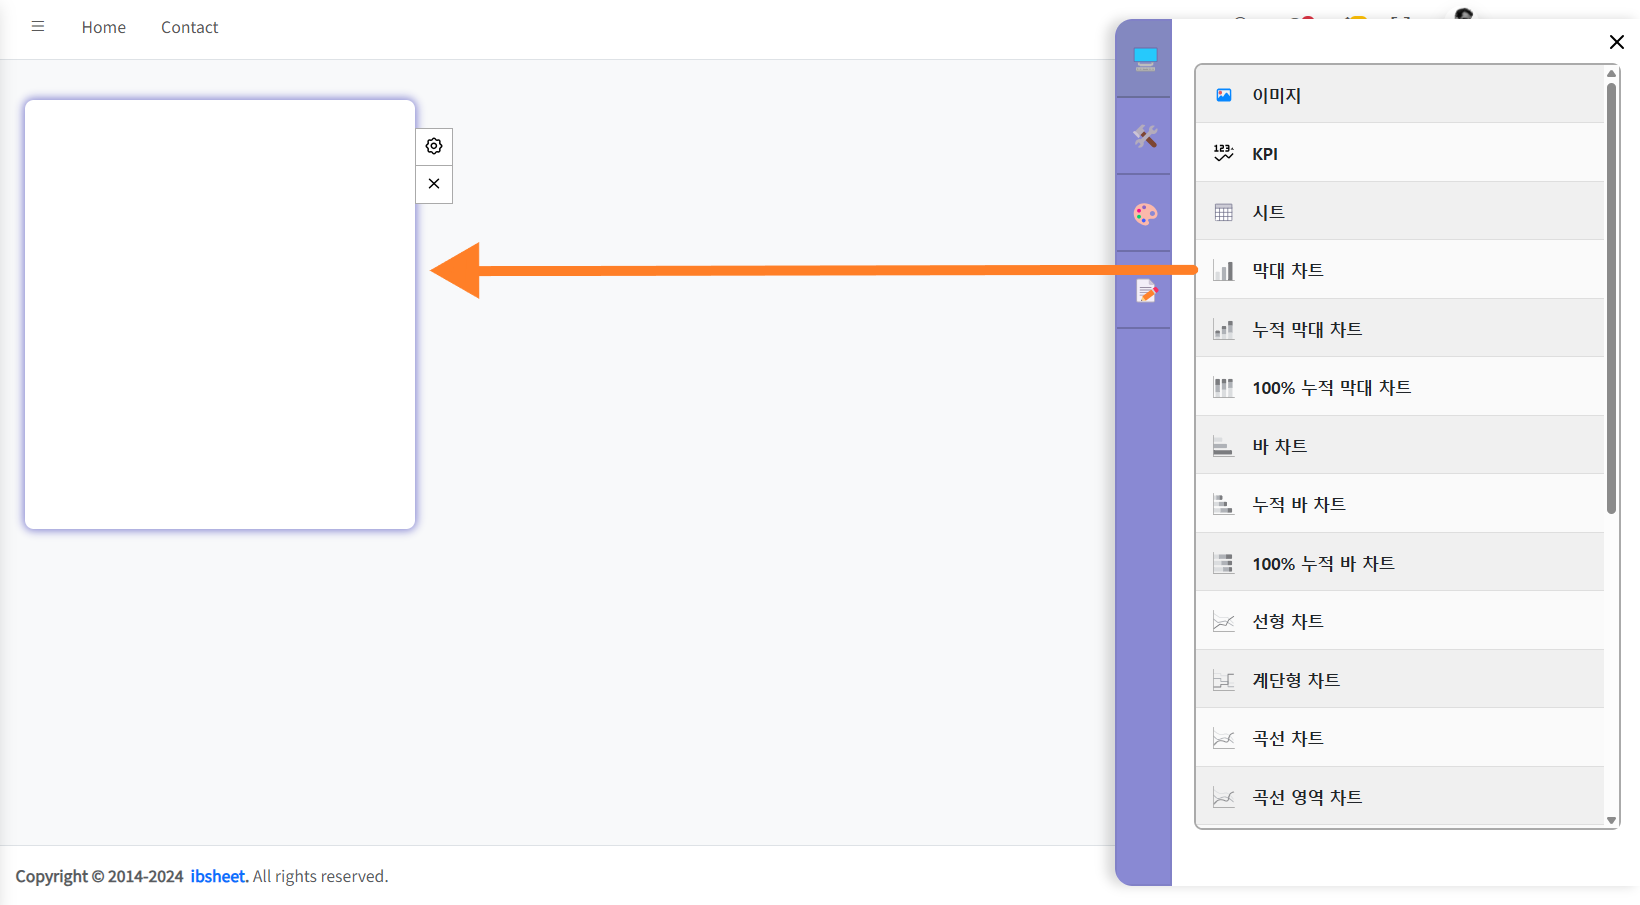
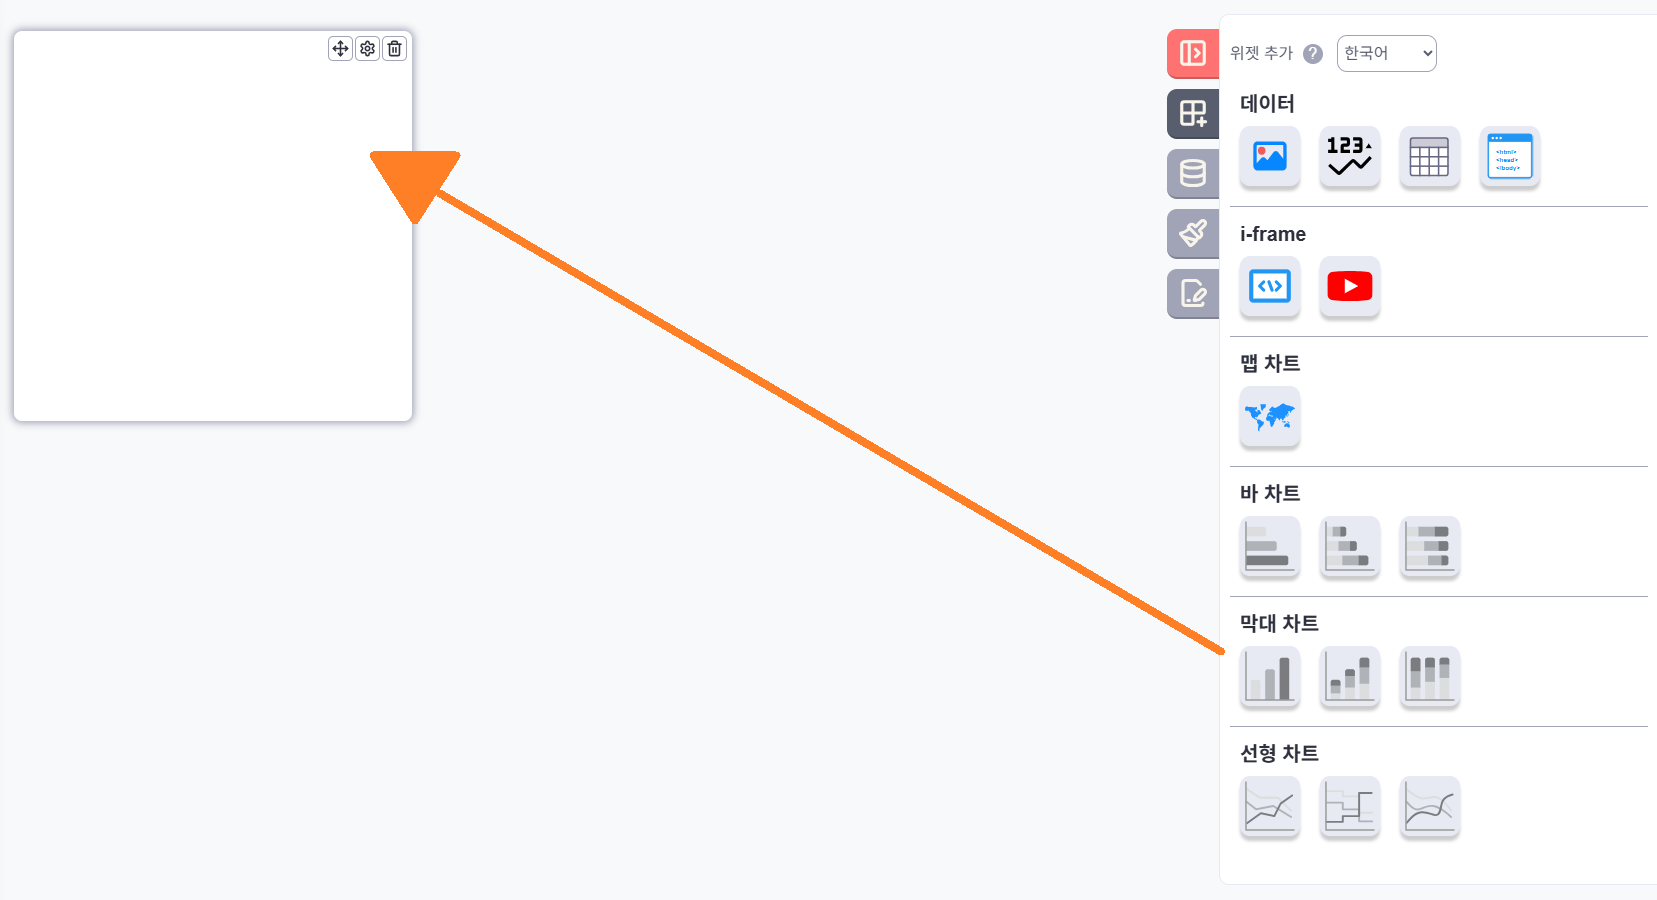
📝매뉴얼 최신화

diff --git a/docs/2. 가이드/1. 대시보드/02. 위젯 Options 설정 가이드.md b/docs/2. 가이드/1. 대시보드/02. 위젯 Options 설정 가이드.md
@@ -1,0 +1,103 @@
+# 위젯 Options 설정 가이드
+DashBuilder의 위젯 객체 설정 가이드 입니다.
+
+## 기본 구조
+
+```javascript
+{
+  id: "chart_1",
+  type: "chart",
+  kind: "column",
+  style: "column",
+  content: '<div id="chart_1" style="width:100%;height:100%;"></div>'
+  dataOptions: {
+    dataSetId: "data1",
+    categories: ["city"],
+    series: ["housingCost"]
+  },
+  options: {
+    ko: {
+      chart: { type: "column" }
+      ...
+    }
+  }
+}
+
+```
+
+## 설명
+
+### id
+- 위젯의 고유한 ID 값.
+- `content` 옵션의 div id 값과 동일해야 됩니다.
+
+### content
+- 위젯이 표시되는 HTML DOM.
+
+### type
+- 위젯의 타입.
+- `chart`, `sheet`, `map`, `img`, `kpi`, `iframe`
+
+### kind
+- 위젯의 타입에 대한 종류.
+- `chart`
+  - `bar`, `column`, `line`, `spline`, `area`, `pie`, `gauge`, `solidgauge`
+- `iframe`
+  - `iframe`, `youtube`
+- `img`
+- `kpi`
+- `sheet`
+- `map`
+
+### style
+- 위젯의 종류에 대한 스타일.
+- `bar`
+  - `bar`, `barStacked`, `barStacked100`
+- `column`
+  - `column`, `columnStacked`, `columnStacked100`, `scatter`
+- `line`
+  - `line`, `lineStep`, `spline`, `polar`
+- `area`
+  - `area`, `areaSpline`, `areaStacked`, `areaStacked100`
+- `pie`
+  - `pie`, `doughnut`, `halfDoughnut`
+- `map`
+- `gauge`
+- `solidgauge`
+- `img`
+- `kpi`
+- `sheet`
+- `iframeUrl`
+- `youtubeUrl`
+
+### dataOptions
+- 위젯의 DataSets 연결 옵션.
+- 해당 옵션의 설정 정보를 통하여 각 위젯의 데이터를 표현.
+  - dataSetId : `(공통)` DataSet 의 ID.
+  - categories : `차트` 위젯에서 category 영역으로 표시 할 DataSet의 keyMap의 ID.
+  - series : `차트` 위젯에서 series 영역으로 표시 할 DataSet의 keyMap의 ID.
+  - 
+
+## 활용 예시
+
+```javascript
+events: {
+  ibchart: {
+    pointClick: function(param) {
+      // 클릭된 차트 포인트의 데이터를 로그에 출력
+      console.log("클릭된 포인트:", param.point);
+      console.log("시리즈:", param.series);
+      console.log("값:", param.value);
+      
+      // 클릭된 포인트에 따른 추가 작업 수행
+      // 예: 다른 위젯 업데이트, 데이터 필터링 등
+    }
+  }
+}
+```
+
+## 참고 사항
+
+- 각 이벤트 핸들러의 `paramObject` 매개변수는 이벤트 유형에 따라 다른 속성을 가집니다.
+- 이벤트 핸들러 내에서 `this`는 기본적으로 이벤트가 발생한 위젯 객체를 참조합니다.
+- 복잡한 대시보드의 경우, 위젯 간 상호작용을 위해 이벤트 핸들러를 활용할 수 있습니다.

diff --git a/docs/2. 가이드/1. 대시보드/3. API/5. addWidget.md b/docs/2. 가이드/1. 대시보드/3. API/5. addWidget.md
@@ -24,13 +24,17 @@ dashboard.addWidget({
   h: 3, // 높이
   id: "new-chart", // 위젯 ID
   type: "chart", // 위젯 타입
+  kind: "column", // 차트 종류
+  style: "column", // 차트 스타일
   content: '<div id="new-chart" style="width:100%;height:100%;"></div>', // 위젯 내용
   options: {
-    chart: { type: "column" },
-    series: [
-      { name: "서울", data: [13, 15, 22, 15] },
-      { name: "부산", data: [7, 20, 29, 17] },
-    ],
+    ko: {
+      chart: { type: "column" },
+      series: [
+        { name: "서울", data: [13, 15, 22, 15] },
+        { name: "부산", data: [7, 20, 29, 17] },
+      ]
+    }
   },
 });
 ```
@@ -44,9 +48,10 @@ dashboard.addWidget({
 ## 참고 사항
 :::tip
 - 위젯 유형에 따라 적절한 위젯 클래스의 인스턴스가 생성됩니다.
-- 지원되는 위젯 유형: 'chart', 'sheet', 'kpi', 'img', 'map'
+- 지원되는 위젯 유형: 'chart', 'sheet', 'kpi', 'img', 'map', 'iframe'
 - 각 위젯은 고유한 ID를 가져야 합니다.
 - 위젯이 추가된 후 자동으로 render() 메서드가 호출됩니다.
+- [options 가이드](../02.%20위젯%20Options%20설정%20가이드.md)
 :::
 
 :::warning

diff --git a/docs/2. 가이드/8. HTML/1. HTML 위젯 가이드.md b/docs/2. 가이드/8. HTML/1. HTML 위젯 가이드.md
@@ -1,0 +1,18 @@
+## HTML 위젯 설정 가이드
+Data Set 을 HTML 위젯과 연결하게 되면 Data Set 의 Data Item 을 표시합니다.
+
+![HTML1](../../assets/img/htmlWidget1.png)
+
+Editor 창에 HTML 코드를 입력하고 적용을 누르게 되면 HTML 위젯에 해당 HTML 코드의 화면이 표시됩니다.
+
+![HTML2](../../assets/img/htmlWidget2.png)
+
+ Data Set 의 Data Item 을 클릭하게 되면 Editor 창에 Data Item 의 데이터를 참조할 수 있는 코드가 입력됩니다. 
+ 
+ 적용을 누르게 되면 HTML 위젯에 해당 HTML 코드의 화면이 표시됩니다.
+
+![HTML3](../../assets/img/htmlWidget3.png)
+
+:::warning
+Data Set 의 Data Item 은 첫번째 데이터에 대해서만 참조합니다.
+:::

diff --git a/docs/2. 가이드/7. iframe/1. iframe 위젯 가이드.md b/docs/2. 가이드/7. iframe/1. iframe 위젯 가이드.md
@@ -1,0 +1,12 @@
+## iframe 위젯 타입 설정
+`Type` 필드에서 `URL`, `HTML` 두가지 중 한가지를 선택 합니다.
+
+![type](../../assets/img/iframeWidget1.png)
+
+`URL`의 경우 아래의 Editor 창에 URL 을 입력하고 적용을 누르게 되면 iframe 위젯에 해당 URL 의 화면이 보여집니다.
+
+![URL](../../assets/img/iframeWidget2.png)
+
+`HTML`의 경우 아래의 Editor 창에 HTML 코드를 입력하고 적용을 누르게 되면 iframe 위젯에 해당 HTML 코드의 화면이 보여집니다.
+
+![HTML](../../assets/img/iframeWidget3.png)

diff --git a/docs/2. 가이드/1. 대시보드/3. API/8. updateWidget.md b/docs/2. 가이드/1. 대시보드/3. API/8. updateWidget.md
@@ -24,12 +24,14 @@ dashboard.updateWidget("chart1", {
   w: 4, // 새 너비
   h: 4, // 새 높이
   options: {
-    chart: { type: "line" }, // 차트 타입 변경
-    series: [
-      { name: "서울", data: [15, 18, 22, 20] }, // 새 데이터
-      { name: "부산", data: [10, 15, 25, 18] },
-    ],
-  },
+    ko: {
+      chart: { type: "line" }, // 차트 타입 변경
+      series: [
+        { name: "서울", data: [15, 18, 22, 20] }, // 새 데이터
+        { name: "부산", data: [10, 15, 25, 18] },
+      ],
+    }
+  }
 });
 ```
 ## 관련 API

diff --git a/docs/2. 가이드/7. iframe/2. youtube 위젯 가이드.md b/docs/2. 가이드/7. iframe/2. youtube 위젯 가이드.md
@@ -1,0 +1,6 @@
+## youtubu 위젯 설정 가이드
+`YouTube URL` 필드에 표시하고자 하는 YouTube 영상 주소를 입력하게 되면 위젯에 해당 영상이 표시됩니다
+
+![YouTube URL](../../assets/img/iframeWidget4.png)
+
+다양한 재생 옵션을 선택하여 설정할 수 있습니다.

diff --git a/docs/2. 가이드/6. 이미지/1. URL 가이드.md b/docs/2. 가이드/6. 이미지/1. URL 가이드.md
@@ -1,2 +1,4 @@
 ## 이미지 URL 세팅
 URL Set 필드를 통해 외부 주소로 연결된 이미지 데이터를 가져와 이미지 위젯에 추가합니다.
+
+![이미지 URL](../../assets/img/imgWidget.png)
